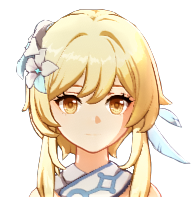
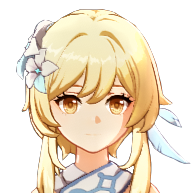
Added new character to balance out number of cards, cropped some imgs, made it easier to tell when a character has been added/removed from the list, changed title font

diff --git a/src/App.js b/src/App.js
@@ -11,13 +11,17 @@ function App()
   //const character_info = [];
   const [teamSubmitted, setTeamSubmitted] = useState(false);
 
-  const characterList = ['Traveler (Anemo)', 'Traveler (Geo)', 'Zhongli', 'Hu Tao', 'Qiqi', 'Keqing', 'Tartaglia', 'Diluc', 'Mona', 'Beidou', 'Xingqiu', 'Chongyun', 'Ningguang', 'Xiangling', 'Bennett', 'Fischl', 'Xinyan', 'Diona', 'Barbara'];
+  const characterList = ['Traveler (Anemo)', 'Traveler (Geo)', 'Zhongli', 'Hu Tao', 'Xiao', 'Qiqi', 'Keqing', 'Tartaglia', 'Diluc', 'Mona', 'Beidou', 'Xingqiu', 'Chongyun', 'Ningguang', 'Xiangling', 'Bennett', 'Fischl', 'Xinyan', 'Diona', 'Barbara'];
   /*useEffect(() =>{
     getInfo();
   });*/
 
   function onCharaButtonClick(e)
   {
+    let id = "chara-btn-" + e.target.value;
+    var elem = document.getElementById(id);
+    if (elem.innerHTML ==="Add to Team") elem.innerHTML = "Remove from Team";
+    else elem.innerHTML = "Add to Team";
     if(teamList.length < 4 && !teamList.includes(e.target.value))
     {
       setTeamList([...teamList, e.target.value]);
@@ -82,7 +86,7 @@ function App()
   {
     return (
       <div class="container-fluid start-page text-center">
-        <h1 class="display-1">Genshin Info</h1>
+        <h1 class="title-header">Genshin Info</h1>
         <div class="row row-cols-4">
         { character_btns }
         </div>

diff --git a/src/CharacterButton.js b/src/CharacterButton.js
@@ -4,13 +4,14 @@ export default function CharacterButton(props)
 {
     let src = "/images/" + props.name + ".png";
     let c_name = "card " + props.name + "-card";
+    let b_name = "chara-btn-" + props.name;
     console.log("c_name: ", c_name);
     return(
     <div class={ c_name } style={{width: "18rem"}} key={ props.key } id={ c_name }>
         <img class="card-img-top" src={ src } alt={ props.name }/>
         <div class="card-body">
           <h5 class="card-title">{ props.name }</h5>
-          <button  class="btn btn-primary" value={ props.name } c_name={ c_name } onClick={ props.onCharaClick }>Add to Team</button>
+          <button  class="btn btn-primary" id={ b_name } value={ props.name } c_name={ c_name } onClick={ props.onCharaClick }>Add to Team</button>
         </div>
     </div>
     );

diff --git a/data.py b/data.py
@@ -260,6 +260,7 @@ characters = {
             'from_boss_fights': 'Dvalin\'s Claw'
         }
     },
+    
     "Diona": {
         'name': 'Diona',
         'element': 'Cryo',
@@ -299,6 +300,7 @@ characters = {
             'from_boss_fights': 'Ring of Boreas'
         }
     },
+
     "Mona": {
         'name': 'Mona',
         'element': 'Hydro',
@@ -318,6 +320,7 @@ characters = {
             'from_boss_fights': 'Ring of Boreas'
         }
     },
+
     "Diluc": {
         'name': 'Diluc',
         'element': 'Pyro',
@@ -357,6 +360,7 @@ characters = {
             'from_boss_fights': 'Ring of Boreas'
         }
     },
+
     "Tartaglia": {
         'name': 'Tartaglia',
         'element': 'Hydro',
@@ -374,6 +378,26 @@ characters = {
             'from_enemies': ['Recruit\'s Insignia', 'Sergeant\'s Insignia', 'Lieutenant\'s Insignia'],
             'from_domains': ['Teachings of Freedom', 'Guide to Freedom', 'Philosophies of Freedom'],
             'from_boss_fights': 'Shard of Foul Legacy'
+        }
+    },
+
+    "Xiao": {
+        'name': 'Xiao',
+        'element': 'Anemo',
+        'weapon': 'Polearm',
+        'img_src': 'https://www.gensh.in/fileadmin/Database/Characters/Xiao/charPortrait_Xiao_XL.png',
+        'char_ascension_costs': [
+            ['20000 Mora', '1 Agnidus Agate Sliver', '3 Qingxin', '3 Slime Condensate'], 
+            ['40000 Mora', '3 Agnidus Agate Fragment', '10 Qingxin', '15 Slime Condensate', '2 Juvenile Jade'],
+            ['60000 Mora', '6 Agnidus Agate Fragment', '20 Qingxin', '12 Slime Secretions', '4 Juvenile Jade'],
+            ['80000 Mora', '3 Agnidus Agate Chunk', '30 Qingxin', '18 Slime Secretions', '8 Juvenile Jade'],
+            ['100000 Mora', '6 Agnidus Agate Chunk', '45 Qingxin', '12 Slime Concentrate', '12 Juvenile Jade'],
+            ['120000 Mora', '6 Agnidus Agate Gemstone', '60 Qingxin', '24 Slime Concentrate', '20 Juvenile Jade']
+        ],
+        'talent_ascension_costs':{
+            'from_enemies': ['Slime Condensate', 'Slime Secretions', 'Slime Concentrate'],
+            'from_domains': ['Teachings of Prosperity', 'Guide to Prosperity', 'Philosophies of Prosperity'],
+            'from_boss_fights': 'Shadow of the Warrior'
         }
     },
 }
